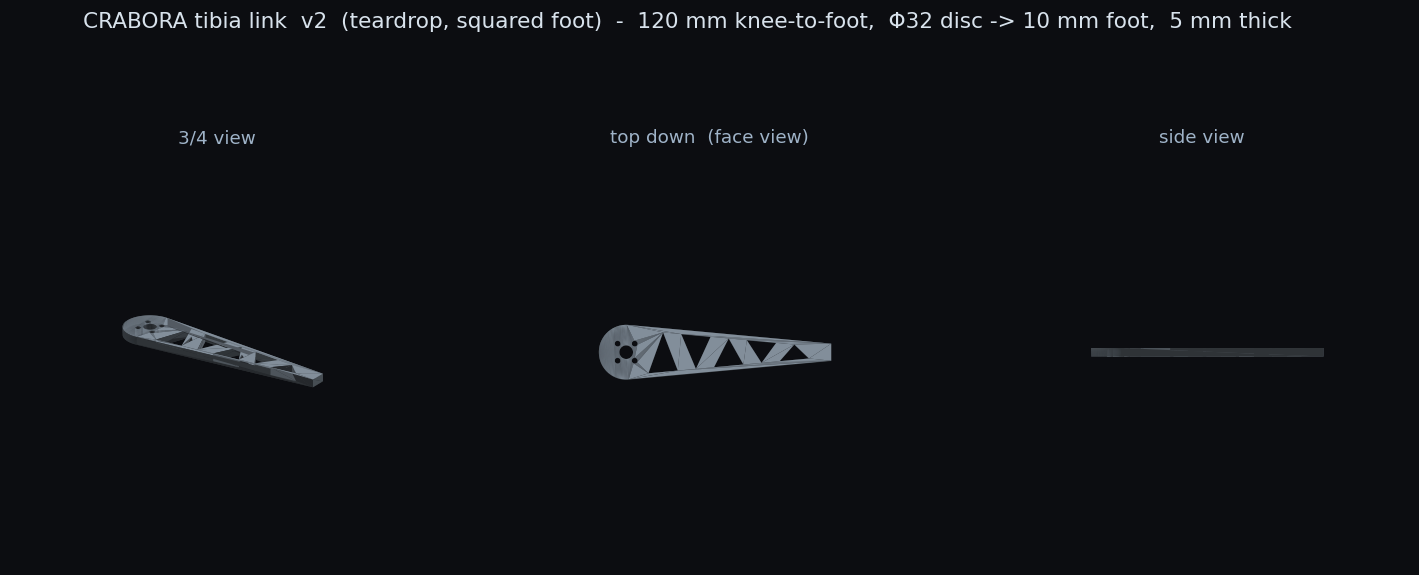
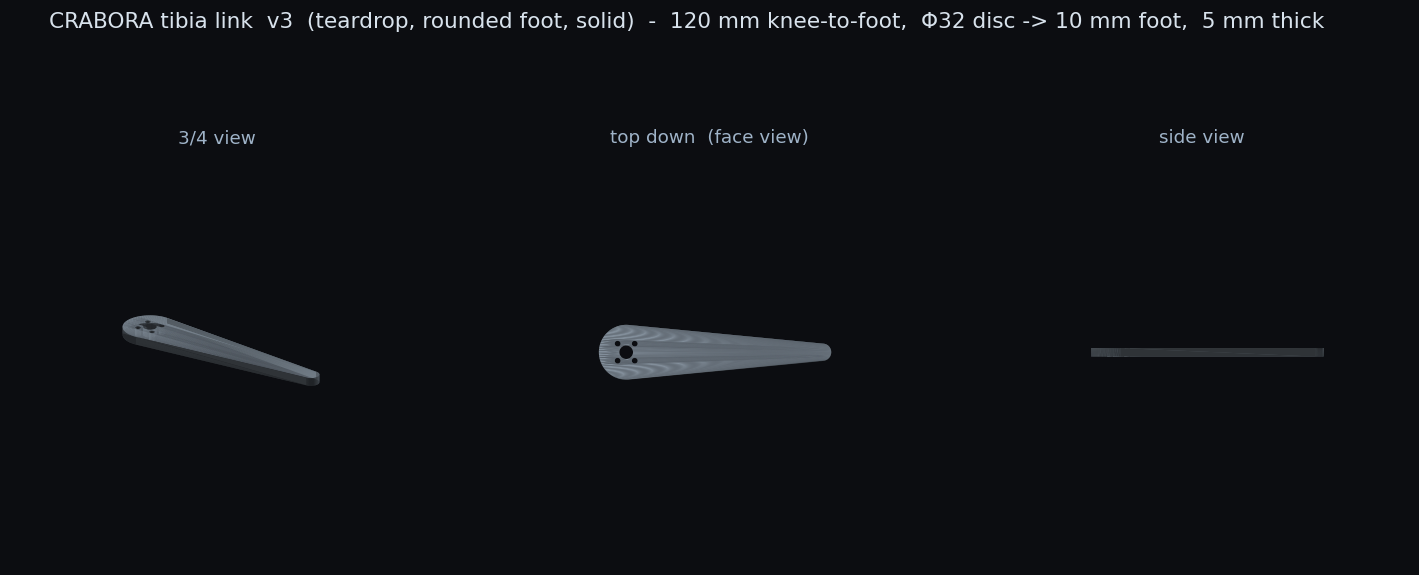
Tibia link v3: rounded foot, solid body
Rounded tip replaces the flat squared edge, which caught on the floor
hard enough to snap a tibia. A round foot presents a tangent to the
ground through the whole swing instead of a corner, so the leg skids
rather than digging in.

Built as the convex hull of the knee disc and a foot circle, which
gives both tangent flanks and both arcs exactly with no tangent
trigonometry to get wrong. The tip stays at X=LINK_LEN, so TIBIA_LEN
120 in walk/gait_lib.py is still knee-axis-to-foot-tip and the
kinematics are unchanged.

Truss disabled (N_TRUSS 0). The open triangles removed material from
mid-span, which is exactly where bending stress peaks. Solid costs
3.1 cm3 per leg, about 3.9 g in PLA, 23 g over six -- cheap next to
breaking one.

Verified: tip points lie on a 10mm arc to 0.0000 mm, mesh watertight.

Changed region(s): [[0.031, 0.0, 0.9302, 0.0591], [0.4341, 0.5617, 0.5891, 0.6504], [0.093, 0.5617, 0.2481, 0.68]]

diff --git a/leg/tibia/design_tibia_link.py b/leg/tibia/design_tibia_link.py
@@ -11,7 +11,7 @@ transitions SMOOTHLY from the disc into the tapered body -- no "notch"
 or step where the disc meets the beam (which v1 had, because v1 was a
 union of a disc + rectangular beam, leaving a 90-deg step at the disc
 edge).  The whole link tapers continuously from KNEE_DISC_DIA wide at
-the knee to FOOT_WIDTH wide at the foot, ending in a SQUARED flat edge
+the knee to FOOT_WIDTH wide at the foot, ending in a ROUNDED tip
 (v1 ended in a semicircular tip).
 
 Knee end:
@@ -23,7 +23,7 @@ Body:
   - Continuous taper from the disc to the foot, no rectangular beam
     section.  5 mm thick (bumped from v1's 3 mm to match the femur
     link strength upgrade).
-  - Warren-truss lightening: N_TRUSS triangles in the body region,
+  - Warren-truss lightening: DISABLED in v3 (N_TRUSS=0).  Was N_TRUSS triangles in the body region,
     alternating apex up/down.  Each triangle auto-scales to the local
     half-width of the tapered outline, so they get smaller toward the
     foot.  The tibia link sees mostly axial (compression) load when
@@ -32,7 +32,7 @@ Body:
     concern here.
 
 Foot end:
-  - Flat squared edge, FOOT_WIDTH mm wide (default 10 mm).  Foot tip =
+  - Rounded tip, FOOT_WIDTH mm across (default 10 mm).  Foot tip =
     the +X edge of the link = the ground-contact line in the leg's
     vertical plane.
   - For better grip on smooth surfaces, glue a rubber pad / silicone
@@ -66,7 +66,7 @@ KNEE_DISC_DIA         = 32.0
 LINK_THK              = 5.0        # was 3.0; bumped to match the femur-link v2
                                    # strength upgrade (bending strength ~thk^2).
 
-# Foot end: flat squared edge of this width at X=LINK_LEN.
+# Foot end: ROUNDED tip of this diameter, tip at X=LINK_LEN.
 # v1 had a semicircular tip of radius BEAM_WIDTH/2 = 12 mm (so the foot
 # was effectively 24 mm wide and rounded).  v2 tapers to a narrow flat
 # edge.  10 mm is a moderate taper from the 32 mm disc.
@@ -82,7 +82,11 @@ HORN_CENTRAL_CLEAR    = 8.0    # Φ8 relief for the horn's central M3 + head
 # the taper, so they shrink toward the foot.  TRUSS_X_LO/HI bound the
 # region: LO sits past the horn-bolt circle, HI stays clear of the
 # narrow foot end.  N_TRUSS=0 disables the truss (solid body).
-N_TRUSS               = 5
+# v3 (2026-10-11): truss disabled. The open triangles removed material
+# from the middle of the link, which is exactly where bending stress
+# peaks, and a tibia broke. Solid is heavier but the leg is not mass
+# critical -- the servo is.
+N_TRUSS               = 0
 TRUSS_MARGIN          = 2.0    # min wall between adjacent triangle cells
 TRUSS_CHORD_MARGIN    = 2.5    # min wall between triangle vertex and link edge
 TRUSS_X_LO            = 12.0   # X where the truss region starts
@@ -142,7 +146,30 @@ def tangent_point_geometry(disc_radius, link_len, foot_y):
 
 def teardrop_outline(disc_radius, link_len, foot_width, n_arc):
     """2D outline of the tibia link: knee disc smoothly tapering to a
-    flat foot edge of width foot_width at X=link_len.
+    ROUNDED foot tip of radius foot_width/2, with the tip at X=link_len.
+
+    v3 (2026-10-11): the foot was a flat squared edge and caught on the
+    floor hard enough to snap a tibia. A round tip presents a tangent to
+    the ground through the whole swing instead of a corner, so the leg
+    skids rather than digging in.
+
+    Construction is simply the convex hull of two circles -- the knee
+    disc at the origin and the foot circle at (link_len - r, 0). That
+    yields the two tangent flanks and both arcs exactly, with no tangent
+    trigonometry to get wrong. The tip stays at X=link_len, so
+    TIBIA_LEN=120 in walk/gait_lib.py remains the knee-axis-to-foot-tip
+    distance and the kinematics are unaffected.
+    """
+    r = foot_width / 2.0
+    quad = max(8, n_arc // 4)
+    disc = shapely.geometry.Point(0.0, 0.0).buffer(disc_radius, quad_segs=quad)
+    foot = shapely.geometry.Point(link_len - r, 0.0).buffer(r, quad_segs=quad)
+    poly = disc.union(foot).convex_hull
+    return shapely.geometry.polygon.orient(poly, sign=1.0)
+
+
+def _unused_squared_outline(disc_radius, link_len, foot_width, n_arc):
+    """Superseded v2 outline, kept only as a record of the flat foot.
 
     Construction: each foot corner has two tangent lines to the disc
     (circle of radius disc_radius at the origin); we use the tangent
@@ -313,7 +340,7 @@ def render_png(link, path):
         ax.set_title(title, color=fg, fontsize=11)
 
     fig.suptitle(
-        f"CRABORA tibia link  v2  (teardrop, squared foot)  -  "
+        f"CRABORA tibia link  v3  (teardrop, rounded foot, solid)  -  "
         f"{LINK_LEN:.0f} mm knee-to-foot,  "
         f"Φ{KNEE_DISC_DIA:.0f} disc -> {FOOT_WIDTH:.0f} mm foot,  "
         f"{LINK_THK:.0f} mm thick",
@@ -327,7 +354,7 @@ def render_png(link, path):
 # =============================================================
 def main():
     os.makedirs(OUT_DIR, exist_ok=True)
-    print("Building tibia link v2 (teardrop, squared foot)...")
+    print("Building tibia link v3 (teardrop, rounded foot, solid)...")
     link = build_link()
     e = link.extents
     vol = link.volume / 1000.0
@@ -336,12 +363,12 @@ def main():
     print(f"  length    : {LINK_LEN:.0f} mm (tibia horn axis -> foot tip)")
     truss_note = (f"{N_TRUSS} truss triangles (auto-scaled X={TRUSS_X_LO:.0f}..{TRUSS_X_HI:.0f})"
                   if N_TRUSS > 0 else "solid (no truss)")
-    print(f"  taper     : Φ{KNEE_DISC_DIA:.0f} disc -> {FOOT_WIDTH:.0f} mm "
-          f"flat foot,  {LINK_THK:.0f} mm thick,  {truss_note}")
+    print(f"  taper     : Φ{KNEE_DISC_DIA:.0f} disc -> Φ{FOOT_WIDTH:.0f} mm rounded tip, "
+          f"{LINK_THK:.0f} mm thick,  {truss_note}")
     print(f"  knee      : Φ{KNEE_DISC_DIA:.0f} disc, 4 M3 horn bolts on "
           f"{HORN_BOLT_SQUARE:.0f} mm square + Φ{HORN_CENTRAL_CLEAR:.0f} central relief,  "
           f"tangent-blended into body (no notch)")
-    print(f"  foot      : flat squared edge, {FOOT_WIDTH:.0f} mm wide  "
+    print(f"  foot      : ROUNDED tip, Φ{FOOT_WIDTH:.0f} mm  "
           f"(glue rubber pad post-print for grip)")
 
     link.export(STL_PATH)
